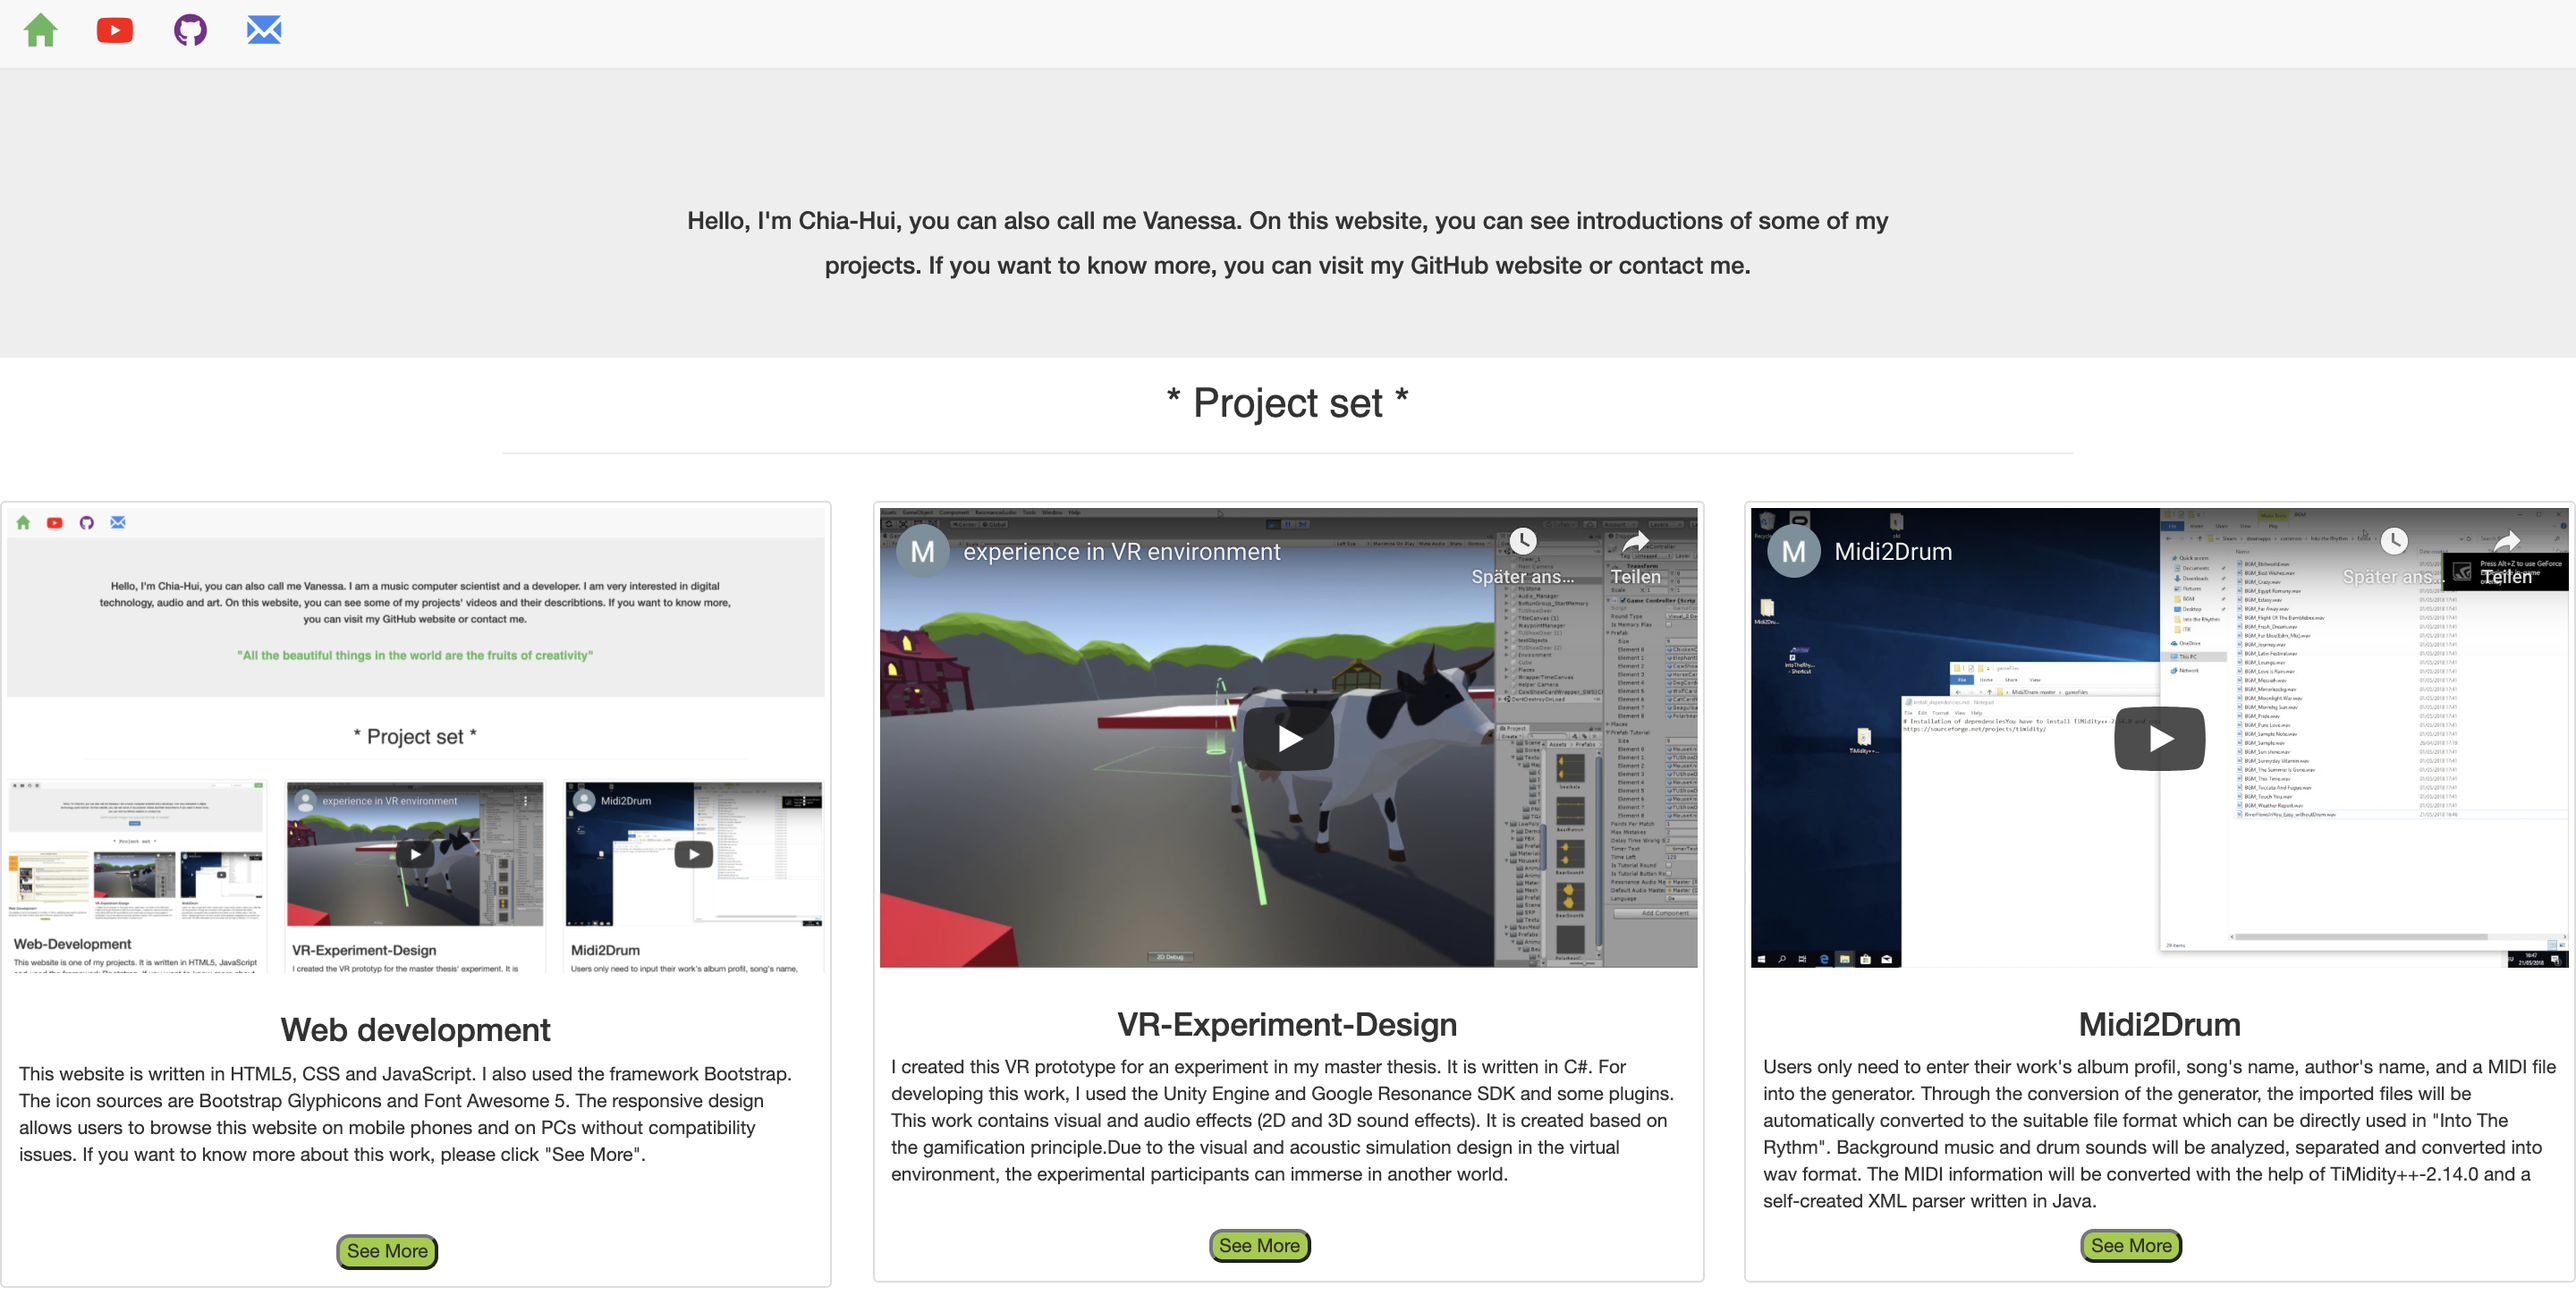
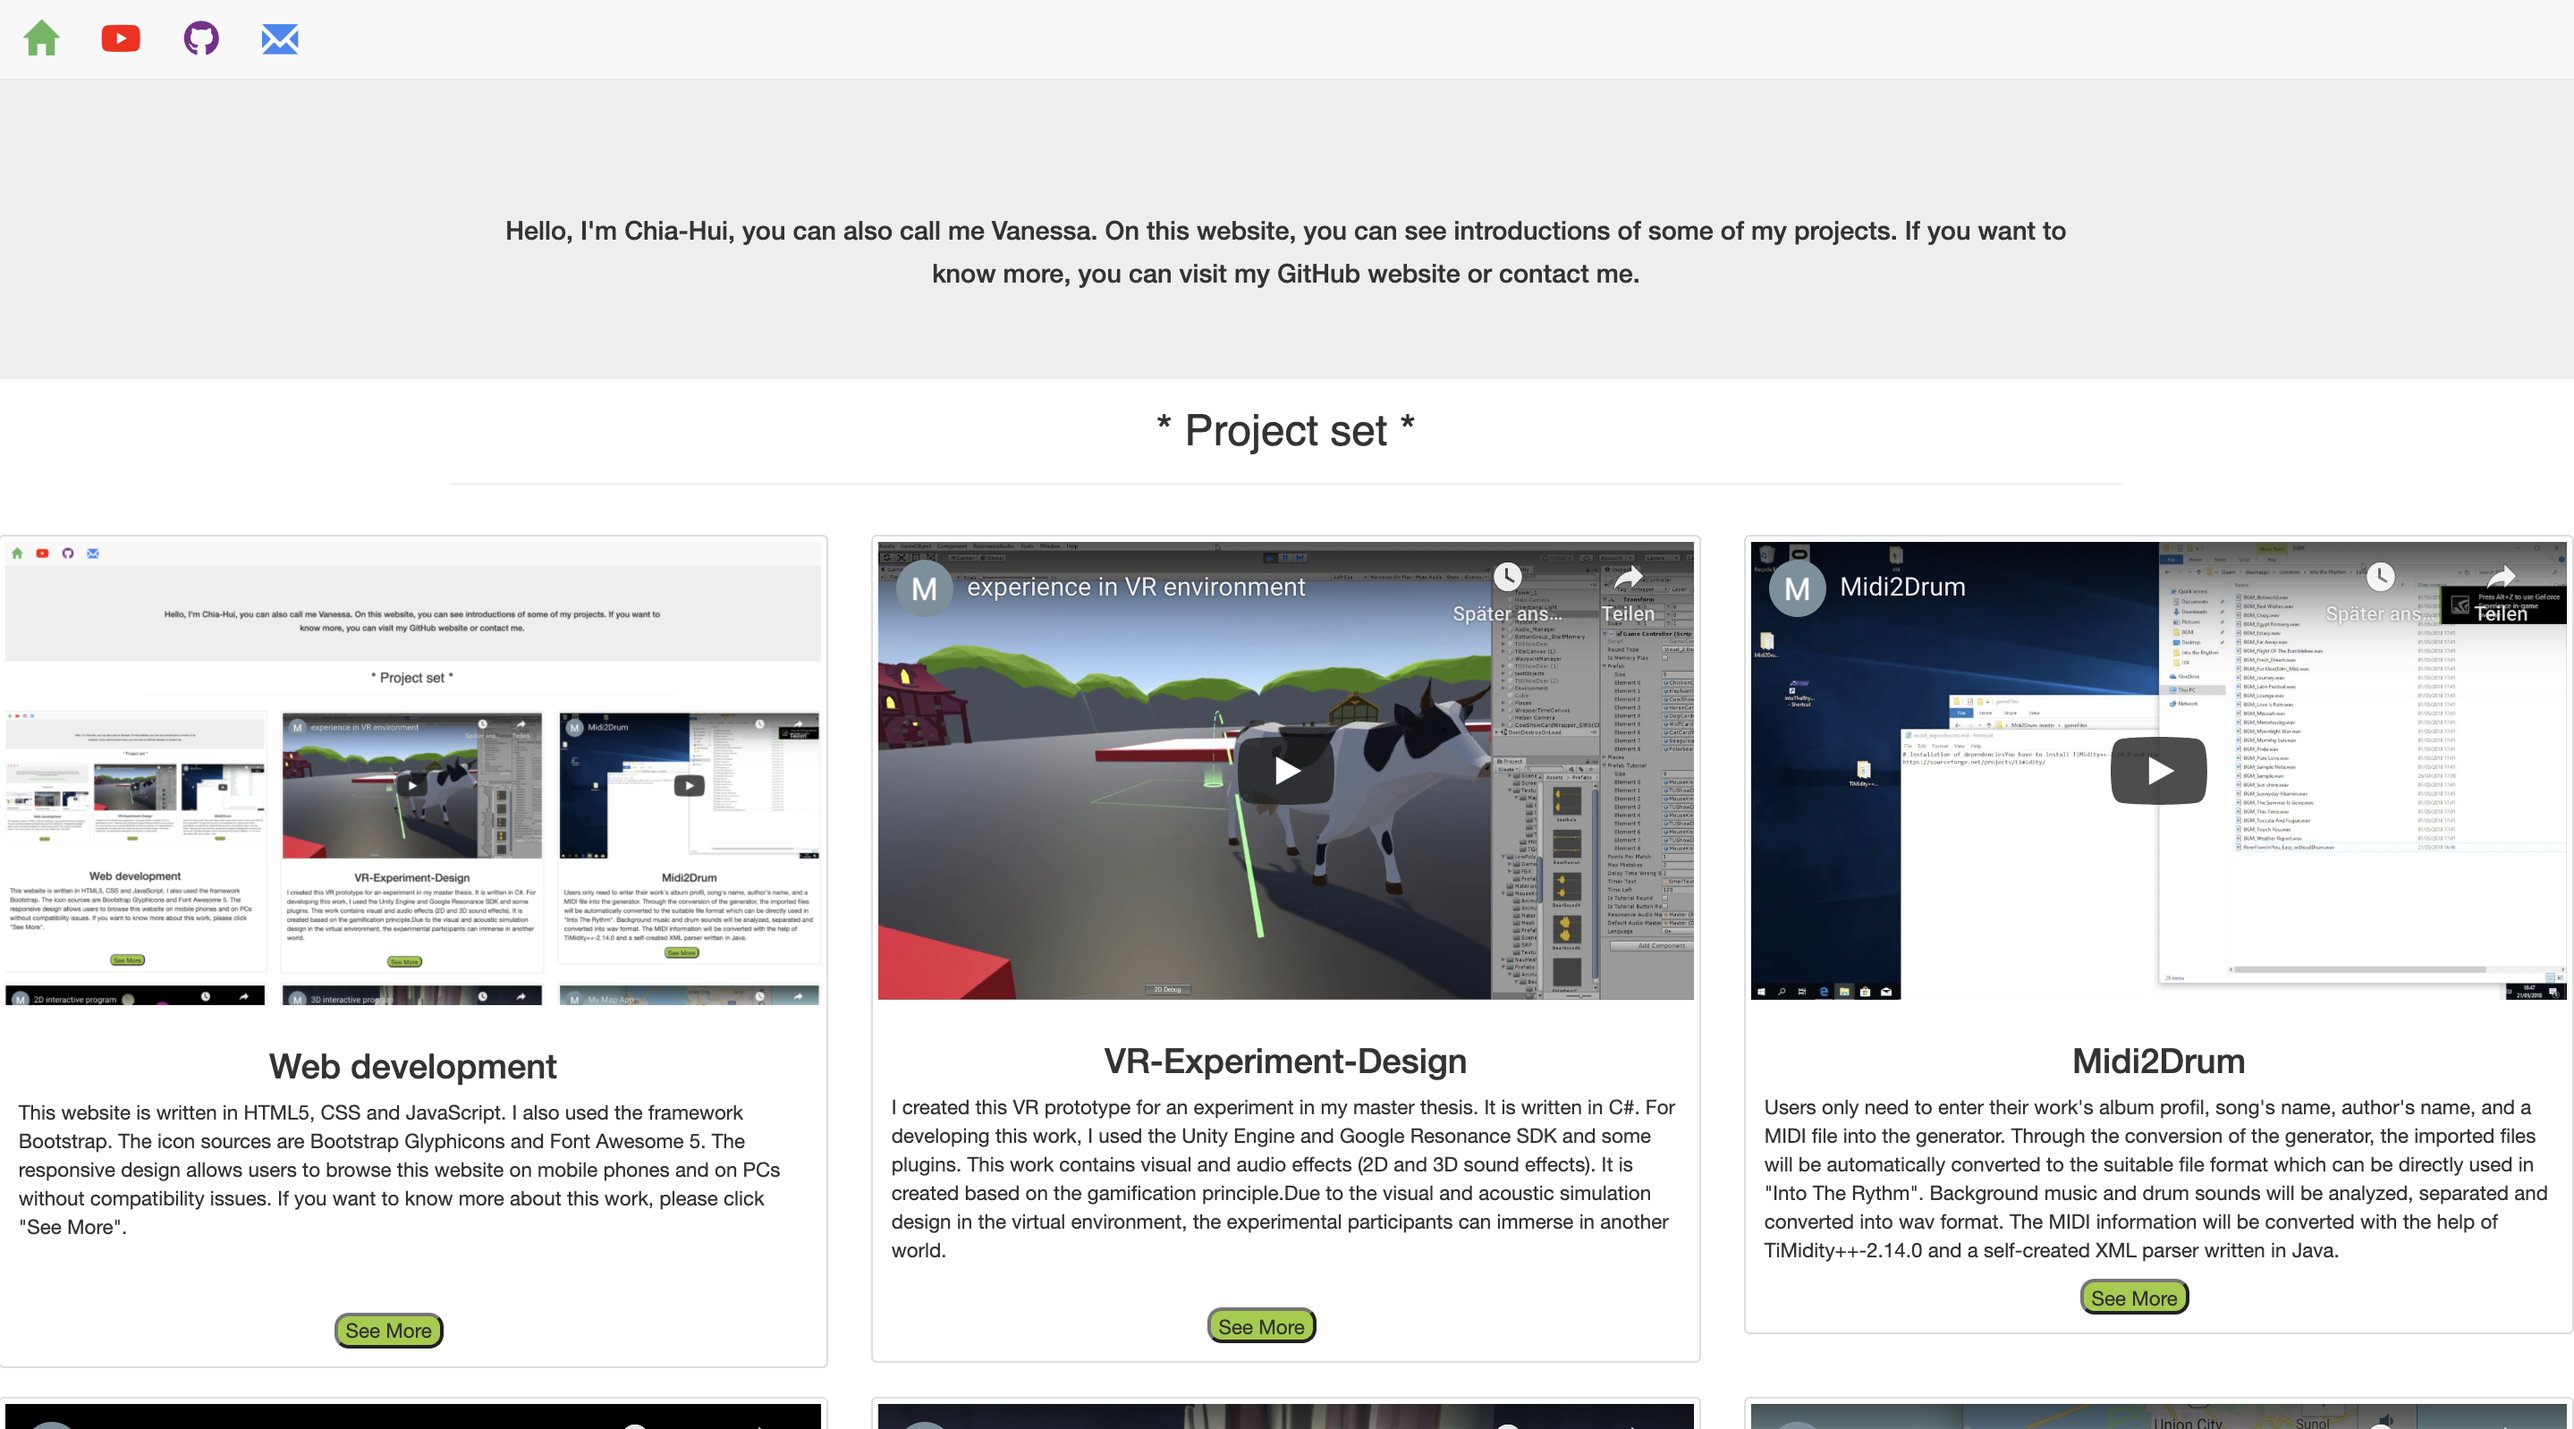
scale changing

diff --git a/index.html b/index.html
@@ -37,10 +37,10 @@
                     window.open("https://github.com/MomoVCHH/2D-interactive-program");
                 } 
 		
-		 function openMap () {
+		         function openMap () {
                     window.open("https://github.com/MomoVCHH/MyMap");
                 } 
-            </script>    
+        </script>    
         
         
         <style>
@@ -61,6 +61,8 @@
             .card-img-top{
                 
                 width:100%;
+                height: 150%;
+                
                 
             }
             
@@ -120,10 +122,7 @@
         
 <div class="jumbotron" id="jumbotron">
     <div class="container" style="margin-top: 5%; text-align:inherit;">
-      <h4 style="line-height: 3rem;">Hello, I'm Chia-Hui, you can also call me Vanessa. On this website, you can see introductions of some of my</h4>    
-      <h4 style="line-height: 2rem;">projects. If you want to know more, you can visit my GitHub website or contact me.</h4>    
-      
-          	    
+      <h4 style="line-height: 3rem;">Hello, I'm Chia-Hui, you can also call me Vanessa. On this website, you can see introductions of some of my projects. If you want to know more, you can visit my GitHub website or contact me.</h4>    
       
           
         
@@ -156,9 +155,9 @@
       <div class="caption">
         <h3 style="text-align: center;">Web development</h3>
         <p>This website is written in HTML5, CSS and JavaScript. I also used the framework Bootstrap. The icon sources are Bootstrap Glyphicons and Font Awesome 5. The responsive design allows users to browse this website on mobile phones and on PCs without compatibility issues. If you want to know more about this work, please click "See More".</p><br><br>
-          <form>
+                <form>
                     <input type="button" value="See More" onclick="openWeb ();"  style="border-radius:1rem;margin-left: 40%;background-color:yellowgreen;">
-                    </form>
+                </form>
         
         
       </div>
@@ -191,7 +190,7 @@
         <h3 style="text-align: center;">Midi2Drum</h3>
         <p>Users only need to enter their work's album profil, song's name, author's name, and a MIDI file into the generator. Through the conversion of the generator, the imported files will be automatically converted to the suitable file format which can be directly used in "Into The Rythm". Background music and drum sounds will be analyzed, separated and converted into wav format. The MIDI information will be converted with the help of TiMidity++-2.14.0 and a self-created XML parser written in Java.</p>
           <form>
-                    <input type="button" value="See More" onclick="openWinMidi2Drum ()" style="border-radius:1rem;margin-left: 40%;background-color:yellowgreen;">
+                    <input type="button" value="See More" onclick="openWinMidi2Drum ()" style="border-radius:1rem;margin-left: 40%;background-color:yellowgreen;margin-top:2vh">
                     </form>
       </div>
     </div>
@@ -241,9 +240,9 @@
                 </div>
       <div class="caption">
         <h3 style="text-align: center;">MyMap</h3>
-        <p>This App was created using the Google Map Places API. The user can see his current location on the map and the locations of the nearby buildings (hospitals, banks, supermarkets, restaurants) and their information. Another function is, if the user types a city name in the search field and then presses the search button, he can see the city's location on the map. In the video, this app is displayed on the emulator, so the user initial location (the Google's headquarters) is showed on the map. This app is written in Java.</p>
+        <p>This App was created using the Google Map Places API. The user can see his current location on the map and the locations of the nearby buildings (hospitals, banks, supermarkets, restaurants) and their information. Another function is, if the user types a city name in the search field and then presses the search button, he can see the city's location on the map. In the video, this app is displayed on the emulator, so the user initial location (the Google's headquarters) is showed on the map.</p>
           <form>
-                    <input type="button" value="See More" onclick="openMap ()" style="border-radius:1rem;margin-left: 40%;background-color:yellowgreen;">
+                    <input type="button" value="See More" onclick="openMap ()" style="border-radius:1rem;margin-left: 40%;background-color:yellowgreen;margin-top:2vh;">
                     </form>
           
       </div>
